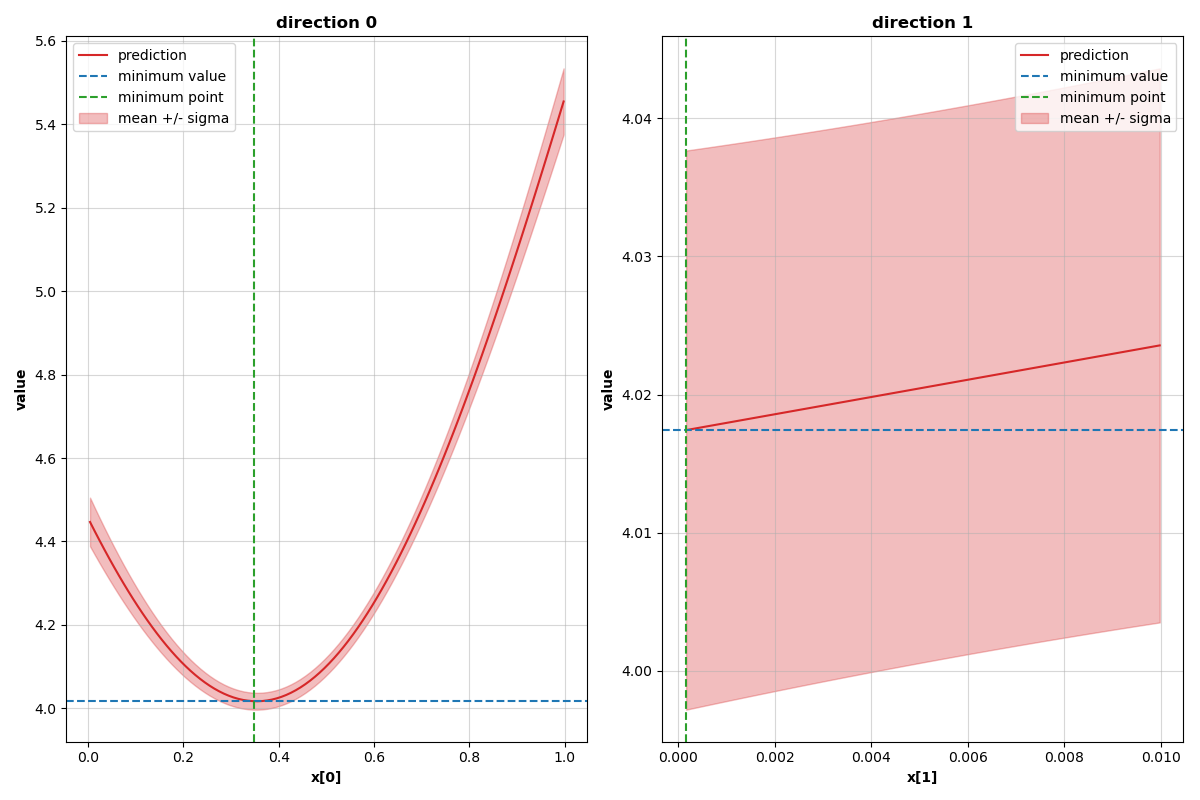
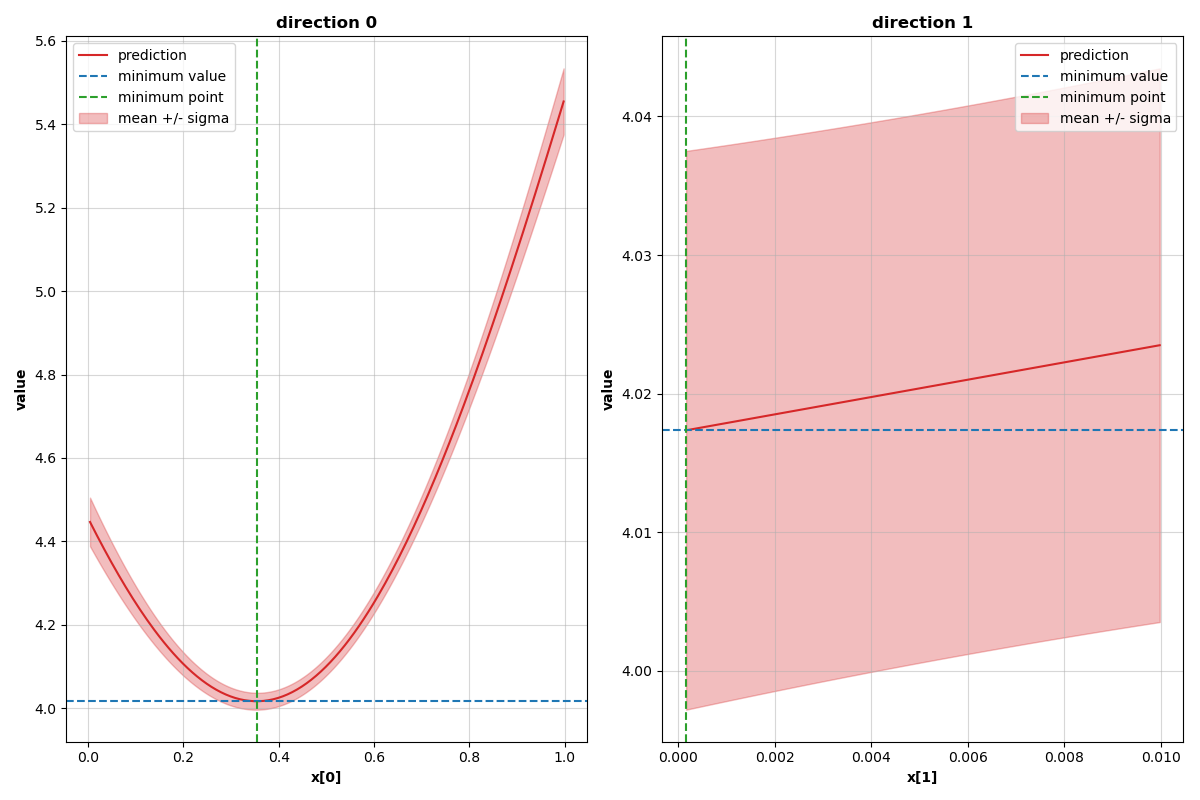
Update

diff --git a/.ipynb_checkpoints/gp_rf_approximation_coupled-checkpoint.py b/.ipynb_checkpoints/gp_rf_approximation_coupled-checkpoint.py
@@ -135,7 +135,7 @@ minimize_rf_X_min, minimize_rf_val_min = minimize_rf_res.x, minimize_rf_res.fun
 # Perform grid search for the global minimum
 brute_gp_X_min, brute_gp_val_min = None, float("inf")
 brute_rf_X_min, brute_rf_val_min = None, float("inf")
-for x in itertools.product(*[np.linspace(min_boundary[i], max_boundary[i], 50)
+for x in itertools.product(*[np.linspace(min_boundary[i], max_boundary[i], 100)
                              for i in range(len(min_boundary))]):
     x = np.array(x)
 
@@ -150,7 +150,7 @@ for x in itertools.product(*[np.linspace(min_boundary[i], max_boundary[i], 50)
 
 
 # Number of grid points for plotting
-n_points = 100
+n_points = 200
 
 # Plot the gp predicted values in a neighbourhood of the minimum
 fig1, ax1 = plt.subplots(1, 2, figsize=(12, 8))

diff --git a/gp_rf_approximation_coupled.py b/gp_rf_approximation_coupled.py
@@ -135,7 +135,7 @@ minimize_rf_X_min, minimize_rf_val_min = minimize_rf_res.x, minimize_rf_res.fun
 # Perform grid search for the global minimum
 brute_gp_X_min, brute_gp_val_min = None, float("inf")
 brute_rf_X_min, brute_rf_val_min = None, float("inf")
-for x in itertools.product(*[np.linspace(min_boundary[i], max_boundary[i], 50)
+for x in itertools.product(*[np.linspace(min_boundary[i], max_boundary[i], 100)
                              for i in range(len(min_boundary))]):
     x = np.array(x)
 
@@ -150,7 +150,7 @@ for x in itertools.product(*[np.linspace(min_boundary[i], max_boundary[i], 50)
 
 
 # Number of grid points for plotting
-n_points = 100
+n_points = 200
 
 # Plot the gp predicted values in a neighbourhood of the minimum
 fig1, ax1 = plt.subplots(1, 2, figsize=(12, 8))
